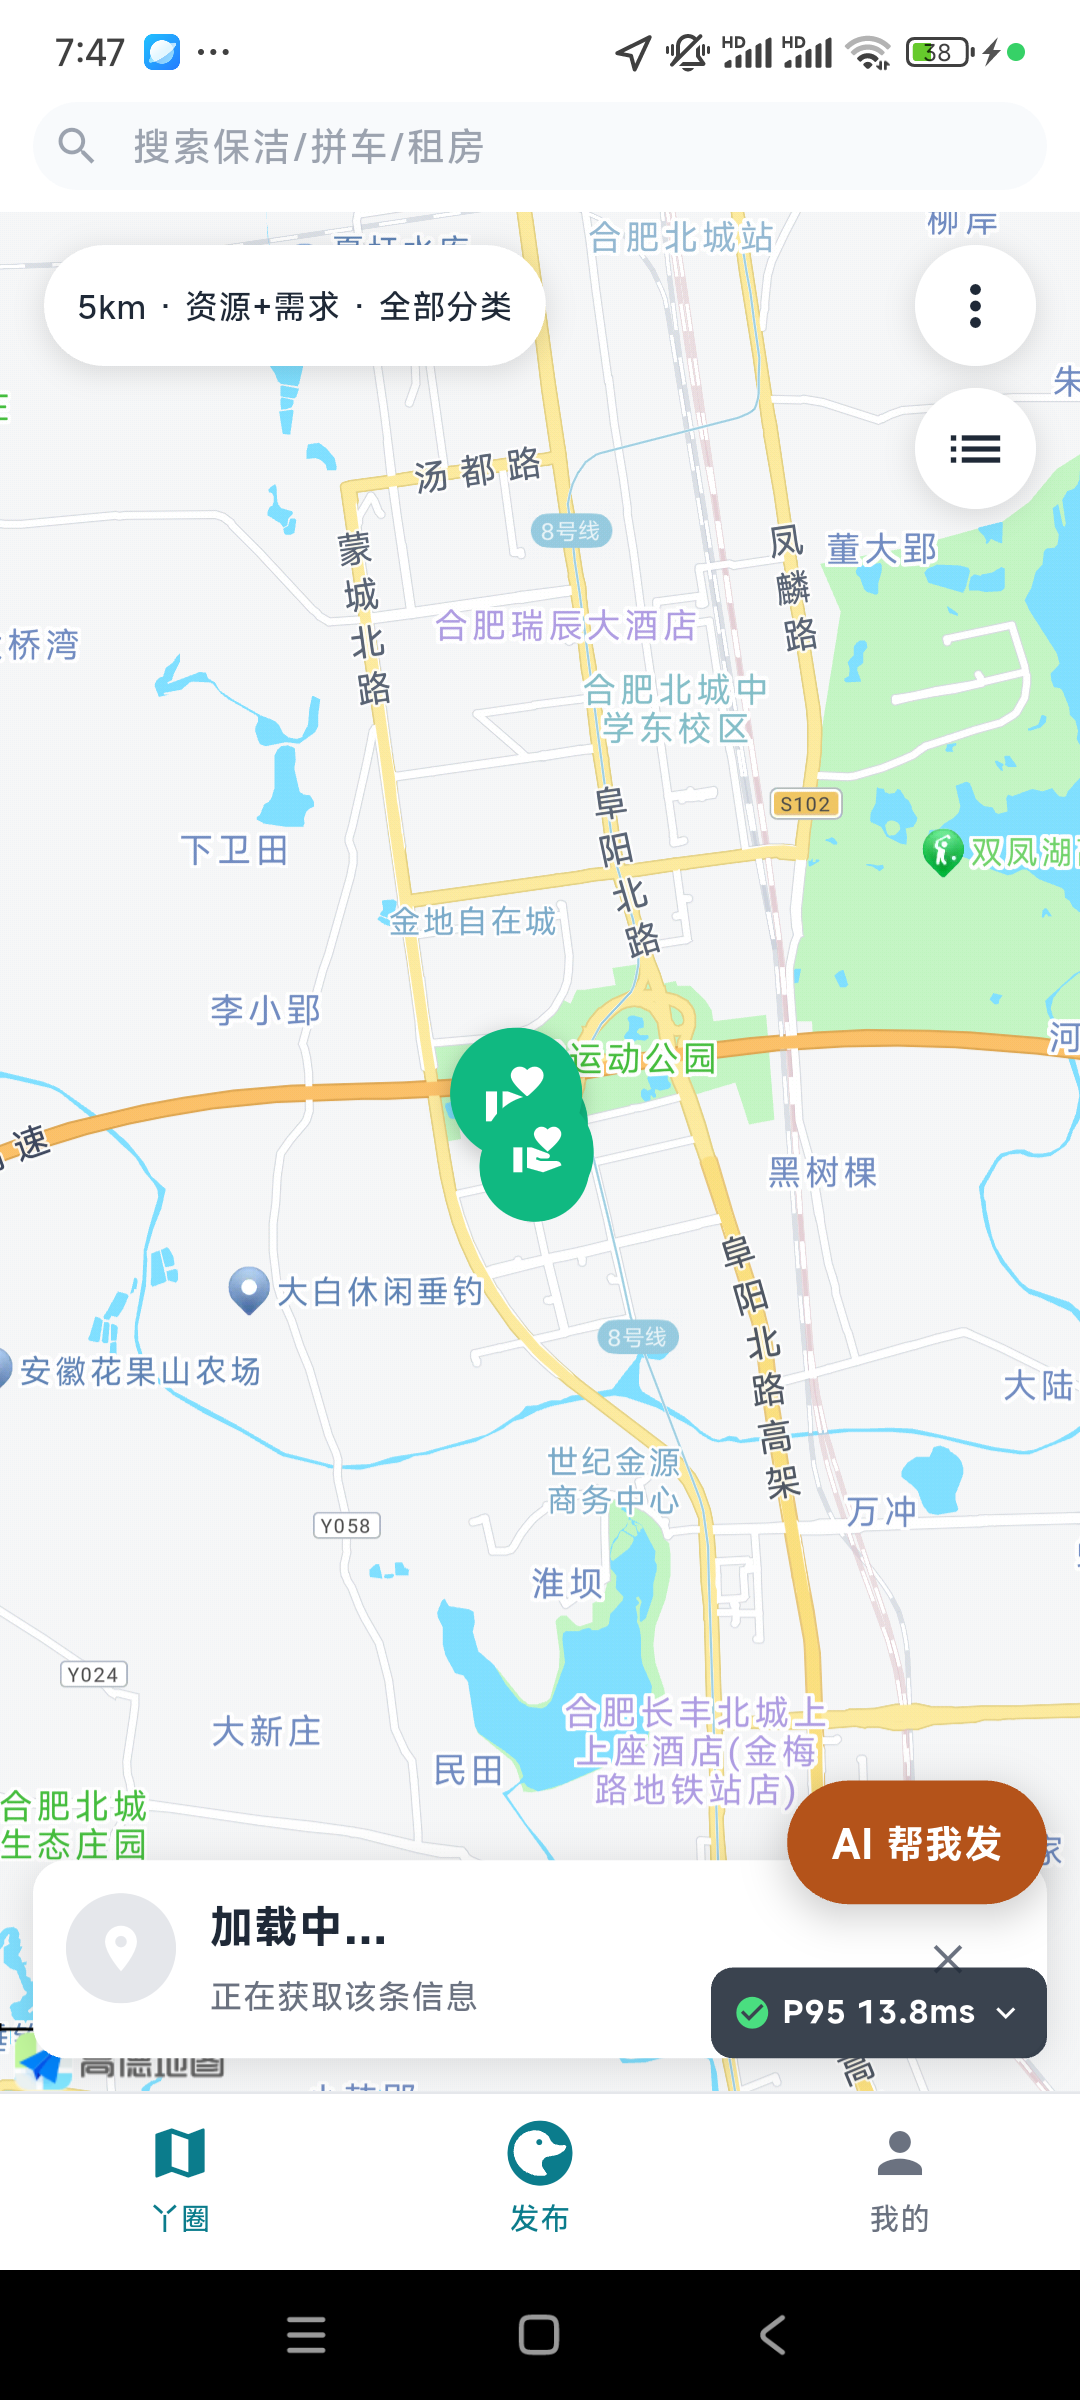
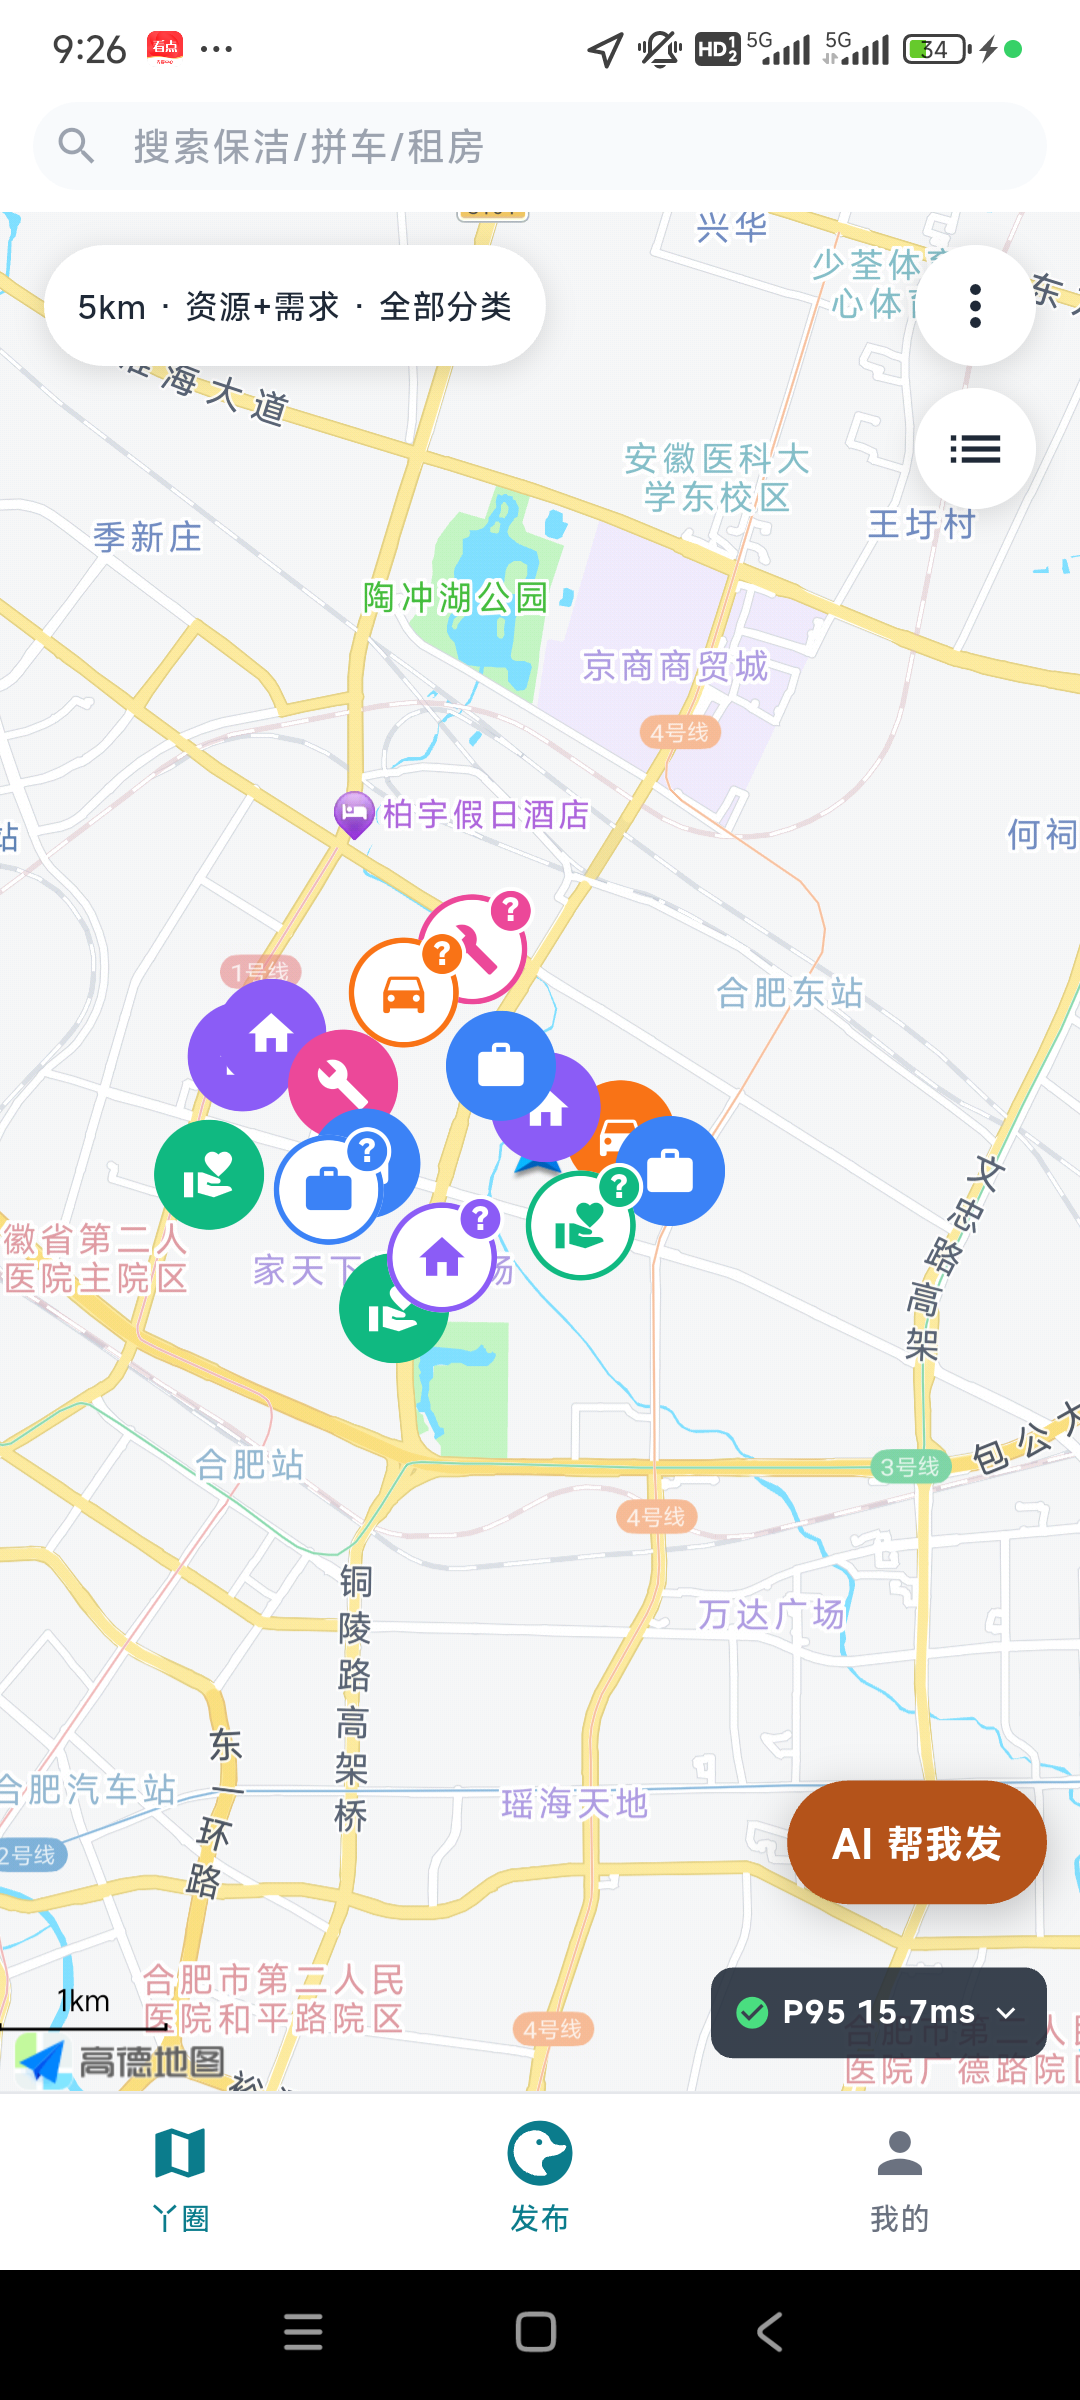
feat(website): 流程图改为 5 步真机截图，二维码与发布包 SHA-256 回填
- 登录页/首页/发布页/详情页/隐私门均为 1080x2400 真机截图

- 新增 zhaoyazhao-flow.png（2400x1600，5 图 + 箭头）作为可下载流程图

- SHA-256 更新为 01DBEC92…3889E（对应 20261023-101352 构建）

diff --git a/website/index.html b/website/index.html
@@ -63,8 +63,8 @@
                    alt="找丫找 App 首页：地图上按分类展示附近的供需信息" width="1080" height="2400">
             </figure>
             <figure class="phone phone-ai">
-              <img src="/assets/screens/ai-confirm.png"
-                   alt="找丫找 App 的 AI 结果确认页：自动识别的分类、标题与价格" width="1080" height="2400" loading="lazy">
+              <img src="/assets/screens/publish.png"
+                   alt="找丫找 App 的发布页：选择分类、位置与价格，AI 可自动补齐内容" width="1080" height="2400" loading="lazy">
             </figure>
           </div>
         </div>
@@ -136,7 +136,7 @@
             <div><dt>签名 MD5</dt><dd><code>30FBC1A8A7A4D57E9CB87BFD9B22D076</code></dd></div>
             <div><dt>开发者</dt><dd>合肥嘉联智能科技有限公司</dd></div>
             <div><dt>更新日期</dt><dd>2026-10-23</dd></div>
-            <div class="verify-wide"><dt>SHA-256</dt><dd><code>E4FA2AC3484899B6EE5A19D90D3D4DA3EEE833514DCC8B4CABB5BED7EF5C44FA</code></dd></div>
+            <div class="verify-wide"><dt>SHA-256</dt><dd><code>01DBEC9224A1E5CBEEEAF4FEE1E13BB9E2F97BE4AB0BFEFEDF93DA01A553889E</code></dd></div>
           </dl>
         </div>
       </div>

diff --git a/website/flow.html b/website/flow.html
@@ -75,10 +75,10 @@
         <article class="flow-item">
           <span class="flow-step">第 4 步</span>
           <figure class="flow-shot">
-            <img src="/assets/screens/ai-confirm.png" alt="找丫找 AI 发布结果确认页，展示识别出的分类、标题与价格" width="1080" height="2400">
+            <img src="/assets/screens/publish.png" alt="找丫找发布页：选择分类、位置、标题与价格，可一键调用 AI 补齐" width="1080" height="2400">
           </figure>
-          <h3>AI 智能发布</h3>
-          <p>拍图或说一句，AI 生成分类、标题、价格与位置，用户确认后才发布。</p>
+          <h3>发布资源 / 需求</h3>
+          <p>选分类、取位置、填标题与价格；拍图或说一句可交由 AI 补齐，确认后才发布。</p>
         </article>
 
         <article class="flow-item">
